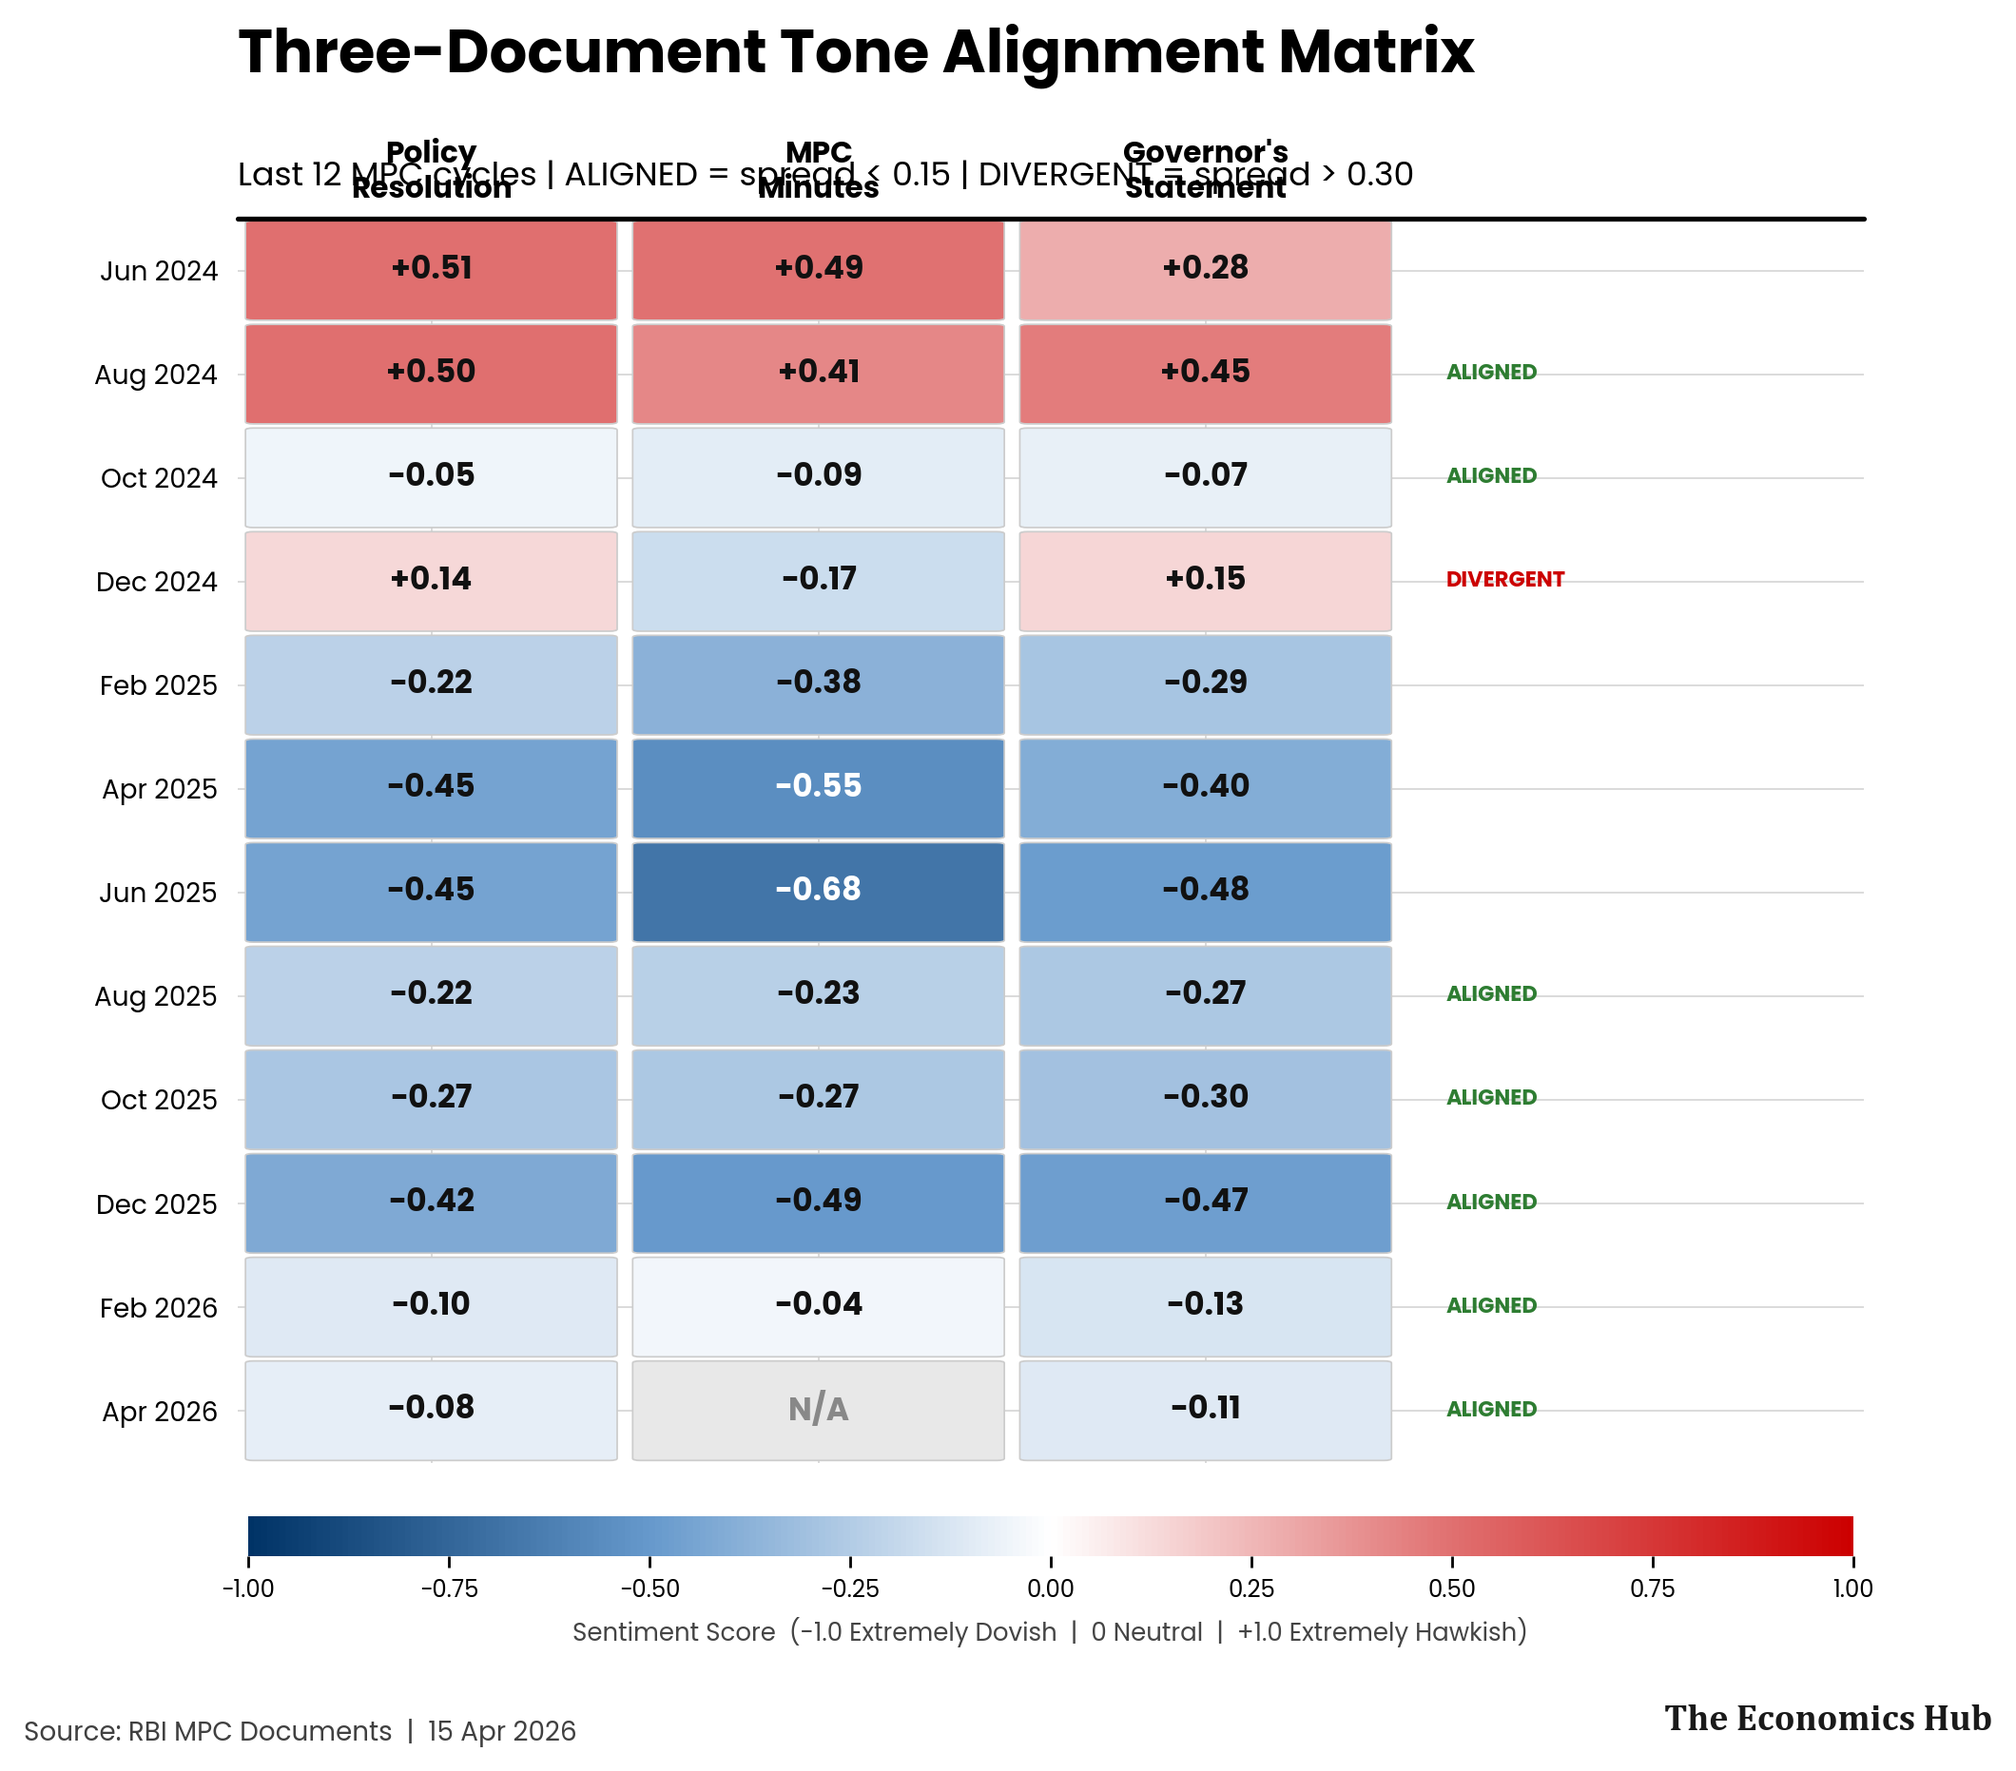
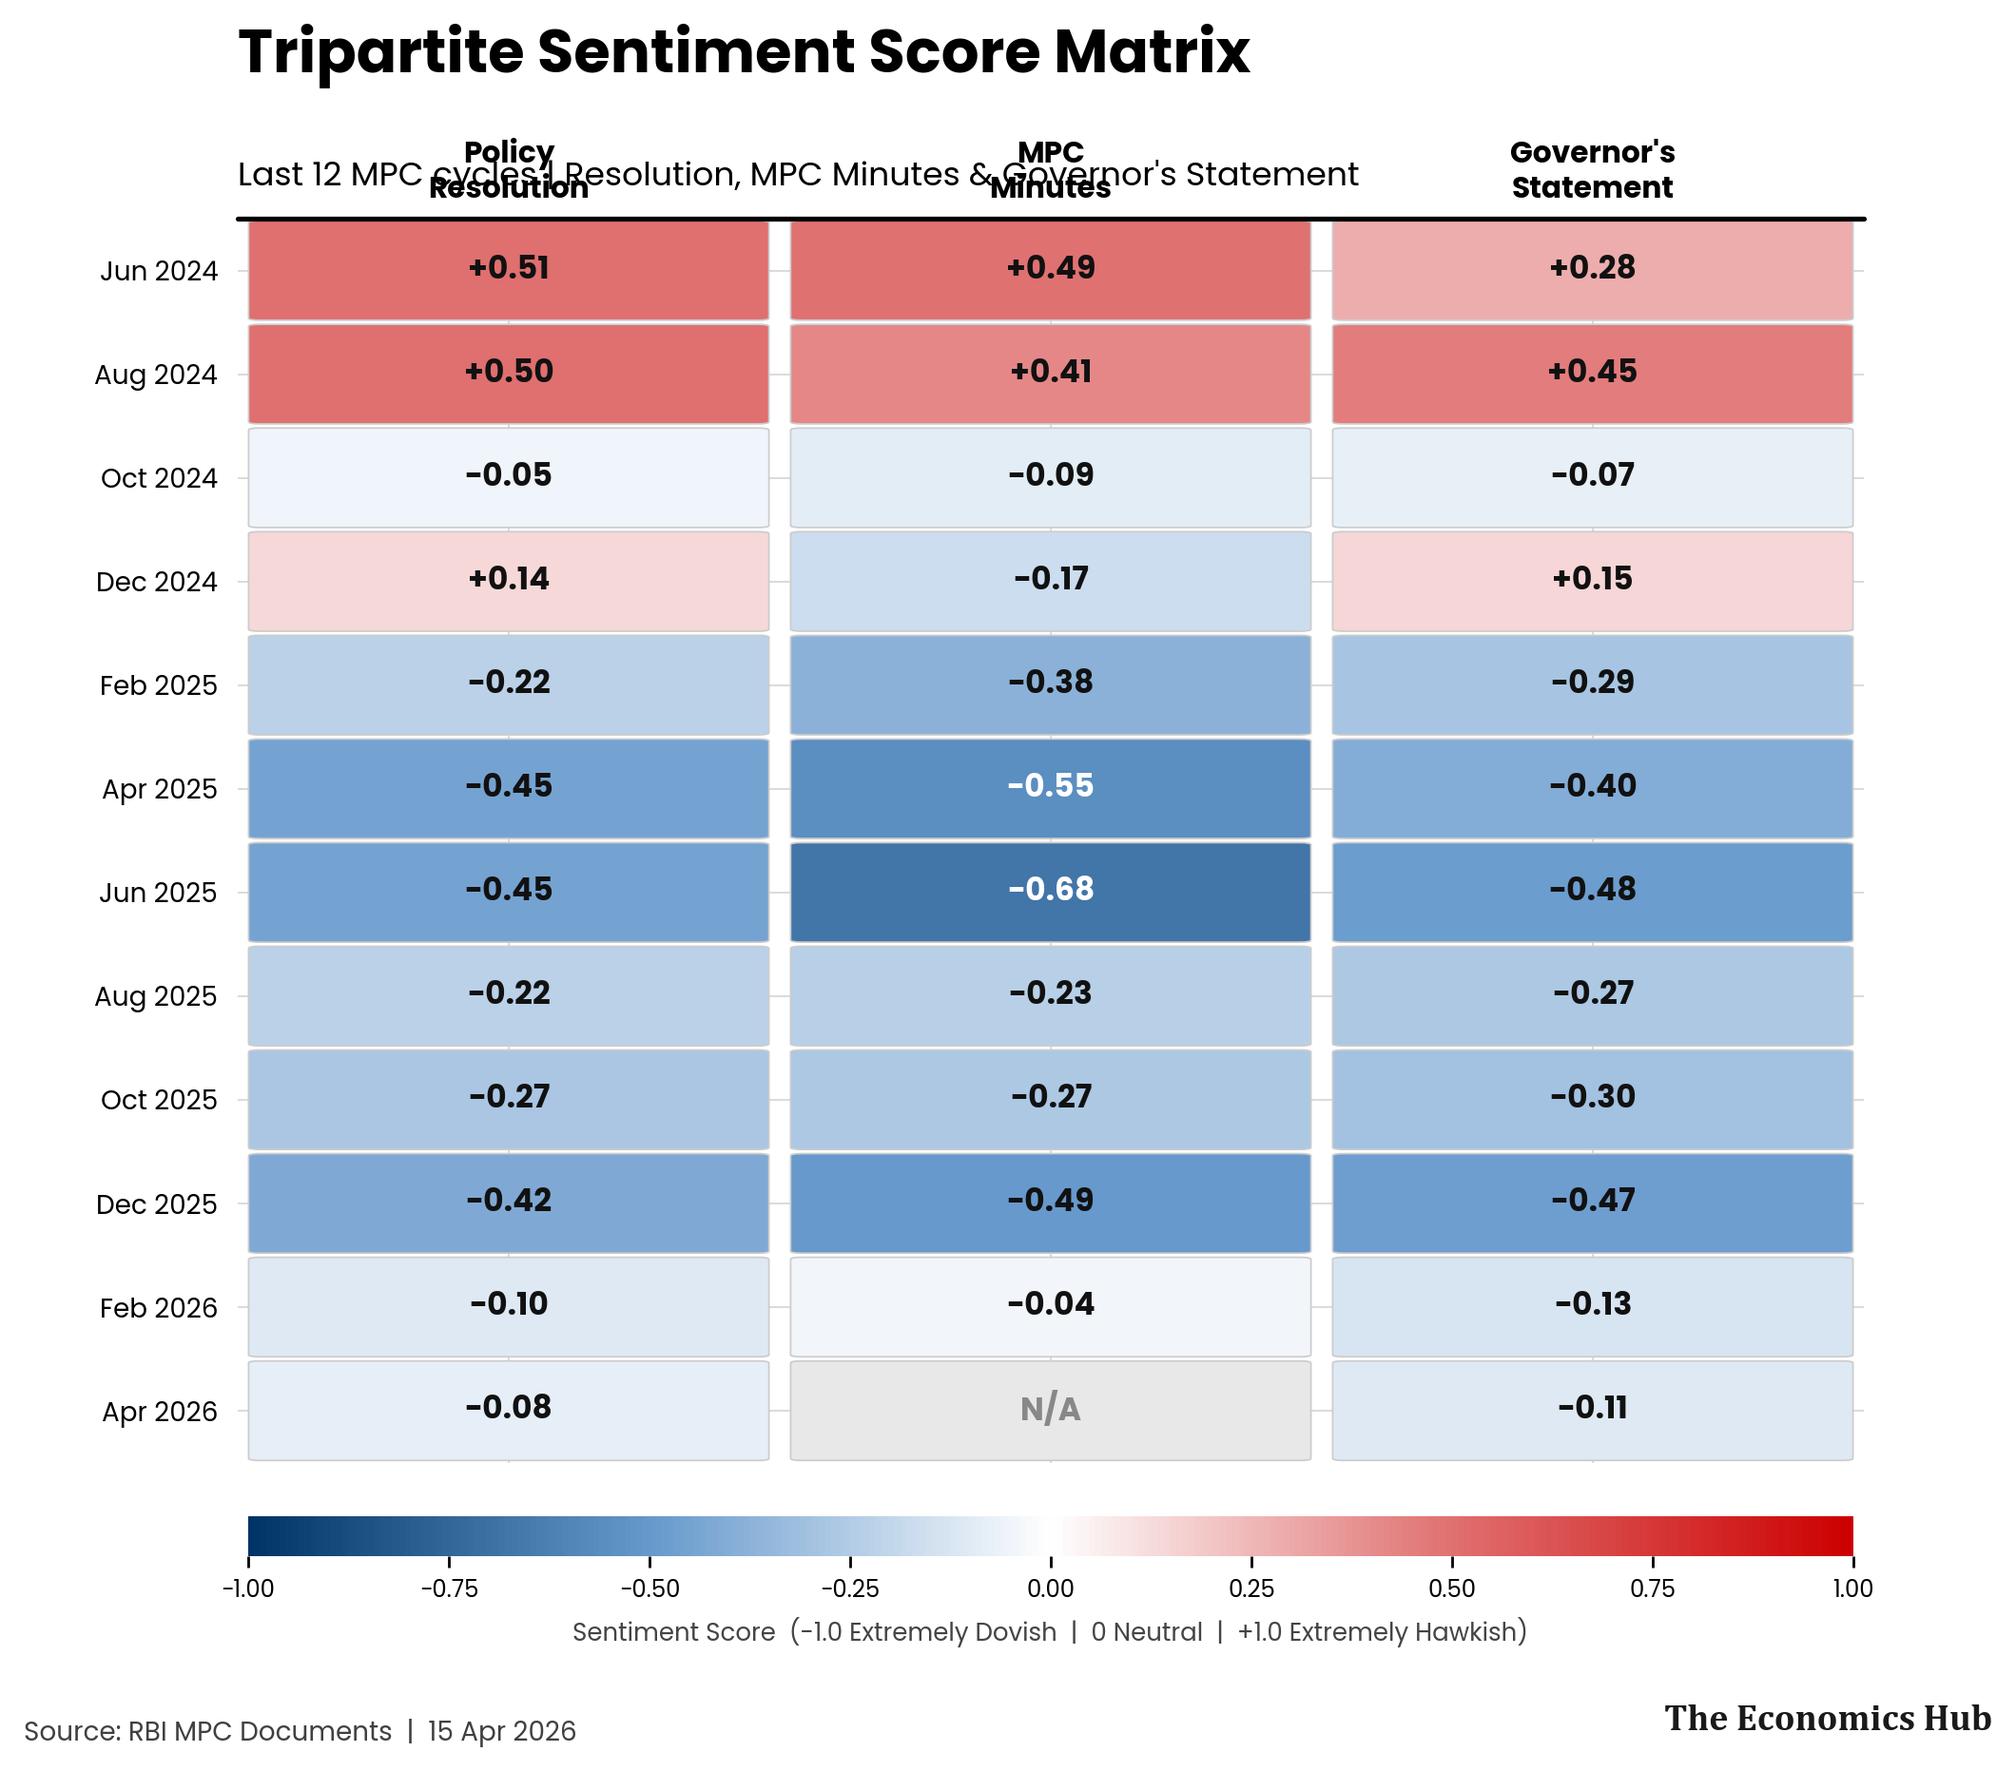
update workflows

Changed region(s): [[0.1245, 0.0, 0.934, 0.8406], [0.1868, 0.2491, 0.2802, 0.2802], [0.3736, 0.7783, 0.4358, 0.8094]]

diff --git a/app.py b/app.py
@@ -808,10 +808,12 @@ with tab_rbi:
                 "the deliberative record of individual member views and dissents, and the Governor's personal "
                 "forward guidance — three analytically distinct signals that frequently diverge.\n\n"
                 "**Why Standard Lexicons Are Insufficient**\n\n"
-                "Loughran-McDonald and similar bag-of-words approaches perform well on corporate earnings "
-                "transcripts where sentiment is expressed explicitly. Central bank communications rely on "
-                "deliberate linguistic hedging: a phrase such as *\"remaining vigilant on inflation\"* conveys "
-                "hawkish intent without a single term appearing in any standard financial dictionary. "
+                "The seminal [Loughran & McDonald (2011)](https://doi.org/10.1111/j.1540-6261.2010.01625.x) "
+                "word-list, while effective on corporate filings, performs poorly on central bank transcripts. "
+                "As documented by [Lucca & Trebbi (2009)](https://www.nber.org/papers/w15367) in their "
+                "automated analysis of FOMC statements, policymakers rely on deliberate linguistic hedging: "
+                "a phrase such as *\"remaining vigilant on inflation\"* conveys hawkish intent without a single "
+                "term appearing in any standard financial dictionary. "
                 "Context-sensitivity and negation handling are prerequisites, not refinements.\n\n"
                 "**Two-Stage Hybrid Pipeline**\n\n"
                 "*Stage 1 — Domain Lexicon:* A bespoke lexicon of 30+ hawkish and 30+ dovish phrases, "
@@ -821,11 +823,16 @@ with tab_rbi:
                 "normalized via tanh(score / √word\\_count × 3) to correct for document length variance. "
                 "Weight in fusion: **25%**.\n\n"
                 "*Stage 2 — LLM Semantic Parsing:* Each document is submitted to a large language model "
-                "under a structured prompt that returns a validated JSON payload containing: six sub-dimension "
-                "scores (inflation stance, growth stance, liquidity stance, rate guidance, FX/external stance, "
+                "under a structured prompt, following the approach demonstrated by "
+                "[López-Lira & Tang (2023)](https://doi.org/10.2139/ssrn.4412788), who show that LLMs "
+                "substantially outperform lexicon-based methods on nuanced, context-dependent financial text. "
+                "The prompt returns a validated JSON payload containing: six sub-dimension scores "
+                "(inflation stance, growth stance, liquidity stance, rate guidance, FX/external stance, "
                 "overall), a confidence estimate, a ranked list of pivotal phrases, and a two-paragraph "
-                "narrative summary. When model confidence falls below 0.55, a higher-capacity model is "
-                "invoked as a fallback. Weight in fusion: **75%**.\n\n"
+                "narrative summary. This structured-output approach draws on methods popularised by "
+                "[Araci (2019)](https://arxiv.org/abs/1908.10063) for domain-adapted financial NLP. "
+                "When model confidence falls below 0.55, a higher-capacity model is invoked as a fallback. "
+                "Weight in fusion: **75%**.\n\n"
                 "*Conflict Detection:* When |lexicon score − LLM score| > 0.40, a conflict flag is raised "
                 "and confidence is capped at 0.45, signalling that the document warrants manual review.\n\n"
                 "**Composite Meeting Score**\n\n"
@@ -844,48 +851,42 @@ with tab_rbi:
             try:
                 from streamlit_mermaid import st_mermaid
                 st_mermaid(
-                    """
-flowchart TD
-    subgraph FETCH["① Fetch Layer"]
-        A["rbi.org.in\nMPC Documents Catalogue"] --> B["Master Fetcher\nHTTP · ASP.NET pagination"]
-        B --> C{"Cache?\nrbi_sentinel_cache/"}
-        C -->|HIT| D["Cached HTML / PDF"]
-        C -->|MISS| B2["Live HTTP Request"]
-        B2 --> D
-    end
-
-    subgraph CLEAN["② Extraction & Cleaning"]
-        D --> E{Format?}
-        E -->|HTML| F["HTML Extractor\nVersioned CSS selectors\nSmart TD fallback"]
-        E -->|PDF| G["PDF Extractor\npdfplumber → PyMuPDF"]
-        F --> H["Text Normalizer\nDedup · sentence splitting"]
-        G --> H
-    end
-
-    subgraph SCORE["③ Hybrid Scoring Engine"]
-        H --> I["Stage 1: Domain Lexicon\n30+ hawkish · 30+ dovish phrases\n5-token negation window · Weight: 25%"]
-        H --> J["Stage 2: LLM Parser\nClaude Haiku → Sonnet fallback\nStructured JSON · 6 sub-dimensions · Weight: 75%"]
-        I --> K["Score Fusion\nConflict flag: Δ > 0.40\nFinal = 0.25×lex + 0.75×llm"]
-        J --> K
-    end
-
-    subgraph DB["④ Storage — SQLite"]
-        K --> L[("rbi_sentinel.db\nsentiment_scores")]
-        L --> M["Composite Engine\nMinutes 50% · Resolution 35%\n· Governor 15%"]
-        M --> N[("meeting_composites")]
-    end
-
-    subgraph VIZ["⑤ Visualisation"]
-        N --> O["Chart Generator\n9 EconStyle matplotlib charts"]
-        O --> P["Streamlit Dashboard\nThe RBI Sentinel Tab"]
-    end
-
-    classDef layer fill:#F4F6F9,stroke:#003366,stroke-width:1.5px,color:#111111
-    classDef store fill:#E8EFF8,stroke:#003366,stroke-width:1px,color:#111111
-    class FETCH,CLEAN,SCORE,VIZ layer
-    class DB store
-                    """,
-                    height=580,
+                    "flowchart TD\n"
+                    "    subgraph F1[\"1 - Fetch\"]\n"
+                    "        A[rbi.org.in MPC Catalogue] --> B[Master Fetcher]\n"
+                    "        B --> C{Cached?}\n"
+                    "        C -->|Yes| D[File Cache]\n"
+                    "        C -->|No| B2[Live HTTP]\n"
+                    "        B2 --> D\n"
+                    "    end\n"
+                    "    subgraph F2[\"2 - Extract and Clean\"]\n"
+                    "        D --> E{Format}\n"
+                    "        E -->|HTML| F[HTML Extractor]\n"
+                    "        E -->|PDF| G[PDF Extractor]\n"
+                    "        F --> H[Text Normalizer]\n"
+                    "        G --> H\n"
+                    "    end\n"
+                    "    subgraph F3[\"3 - Hybrid Scoring\"]\n"
+                    "        H --> I[Lexicon Stage - Weight 25pct]\n"
+                    "        H --> J[LLM Semantic Stage - Weight 75pct]\n"
+                    "        I --> K[Score Fusion and Conflict Check]\n"
+                    "        J --> K\n"
+                    "    end\n"
+                    "    subgraph F4[\"4 - SQLite Storage\"]\n"
+                    "        K --> L[(sentiment_scores)]\n"
+                    "        L --> M[Composite Engine]\n"
+                    "        M --> N[(meeting_composites)]\n"
+                    "    end\n"
+                    "    subgraph F5[\"5 - Visualisation\"]\n"
+                    "        N --> O[Chart Generator]\n"
+                    "        O --> P[Streamlit Dashboard]\n"
+                    "    end\n"
+                    "    style F1 fill:#F4F6F9,stroke:#003366\n"
+                    "    style F2 fill:#F4F6F9,stroke:#003366\n"
+                    "    style F3 fill:#F4F6F9,stroke:#003366\n"
+                    "    style F4 fill:#E8EFF8,stroke:#003366\n"
+                    "    style F5 fill:#F4F6F9,stroke:#003366\n",
+                    height=560,
                 )
             except ImportError:
                 st.info("Install `streamlit-mermaid` to render the pipeline architecture diagram.")

diff --git a/config/insights.py b/config/insights.py
@@ -525,20 +525,21 @@ position, often a precursor to a change-in-stance announcement.
 """,
 
     "rbi_tone_heatmap": """\
-**How to read this chart:** Each row represents one MPC meeting cycle. The three columns show the \
+**How to read this chart:** Each row is one MPC meeting cycle; the three columns show the \
 sentiment scores for the Policy Resolution, MPC Minutes, and Governor's Statement respectively. \
-Cells are colored on a diverging scale: deep navy (−1.0, extremely dovish) → white (0.0, neutral) \
-→ deep red (+1.0, extremely hawkish). The numeric score is printed inside each cell. Rows labelled \
-ALIGNED (green) have a cross-document spread below 0.15; rows labelled DIVERGENT (red) have a \
-spread above 0.30, indicating significant fragmentation across the three documents.
+Cells are shaded on a diverging colormap: deep navy (−1.0, extremely dovish) through white \
+(0.0, neutral) to deep red (+1.0, extremely hawkish). The numeric score is printed inside each \
+cell. Read down a column to track how a single document type has evolved over time; read across \
+a row to see how much the three documents agreed at a given meeting.
 
-**Practical takeaway:** Aligned hawkish rows — all three cells red — represent the highest-quality \
-tightening signals in the model: the Governor, the committee's formal statement, and the internal \
-deliberation record all corroborate the stance simultaneously. These rows have historically \
-preceded rate actions with the shortest lag. Divergent rows require more caution: when the \
-Governor's cell is notably more hawkish than the Minutes cell, it typically means the Governor is \
-personally ahead of the committee — track whether the divergence narrows (committee aligns) or \
-reverses (Governor backs down) at the following meeting.
+**Practical takeaway:** When an entire row is shaded deep red, the three communication channels \
+are all corroborating a hawkish stance — the highest-confidence signal in the model and the \
+pattern most closely associated with subsequent rate action. A row where the Governor's cell is \
+noticeably darker than the Minutes cell signals that the Governor is personally ahead of the \
+committee, a pattern that has historically preceded formal stance changes by one to two meetings. \
+A row where the Minutes cell alone is dark blue while the other two are neutral or red is a \
+classic "internal dissent" pattern: the committee's published statement is understating the \
+dovish pressure building inside the deliberation room.
 """,
 
 }

diff --git a/rbi_sentinel/charts/tone_heatmap.py b/rbi_sentinel/charts/tone_heatmap.py
@@ -123,32 +123,8 @@ def generate(
                 zorder=3,
             )
 
-    # ── Row consensus/divergence indicator in right margin ────────────────────
-    for row_i in range(n_rows):
-        row_vals = [score_matrix[row_i, j] for j in range(n_cols) if not np.isnan(score_matrix[row_i, j])]
-        if len(row_vals) < 2:
-            continue
-        spread = max(row_vals) - min(row_vals)
-        if spread < 0.15:
-            marker_text = "ALIGNED"
-            marker_color = "#2E7D32"
-        elif spread > 0.30:
-            marker_text = "DIVERGENT"
-            marker_color = "#CC0000"
-        else:
-            marker_text = ""
-            marker_color = "#888888"
-
-        if marker_text:
-            ax.text(
-                n_cols + 0.12, row_i + 0.5, marker_text,
-                ha="left", va="center",
-                fontsize=6.5, color=marker_color, fontweight="bold",
-                zorder=3,
-            )
-
     # ── Axes setup ────────────────────────────────────────────────────────────
-    ax.set_xlim(0, n_cols + 1.2)
+    ax.set_xlim(0, n_cols)
     ax.set_ylim(0, n_rows)
 
     # X-axis: column labels at top
@@ -180,14 +156,11 @@ def generate(
 
     # ── Title & branding ──────────────────────────────────────────────────────
     if mode == "newsletter":
-        title = "When Does the Committee Speak With One Voice?"
-        subtitle = "Tone alignment across all three MPC documents"
+        title = "The Committee in Color — Sentiment Across All Three Documents"
+        subtitle = "Resolution, Minutes & Governor scores per MPC cycle"
     else:
-        title = "Three-Document Tone Alignment Matrix"
-        subtitle = (
-            f"Last {len(df)} MPC cycles | "
-            "ALIGNED = spread < 0.15 | DIVERGENT = spread > 0.30"
-        )
+        title = "Tripartite Sentiment Score Matrix"
+        subtitle = f"Last {len(df)} MPC cycles | Resolution, MPC Minutes & Governor's Statement"
 
     EconStyle.add_top_rule(ax)
     EconStyle.set_title(ax, title, subtitle)

diff --git a/rbi_sentinel/pipeline.py b/rbi_sentinel/pipeline.py
@@ -339,12 +339,13 @@ def run_generate_charts(
         mode=mode,
     )
 
-    # Chart 03: Resolution vs Minutes (last N meetings)
+    # Chart 03: Tripartite comparison — last 4 MPC cycles
     recent = db.get_recent_composites(COMPARISON_CHART_MEETINGS)
     comparison_mod.generate(
         composites=recent,
         output_path=output_dir / "03_rbi_resolution_vs_minutes.png",
         mode=mode,
+        n_meetings=4,
     )
 
     # Chart 04: Sub-dimension Radar
